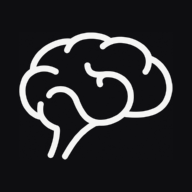
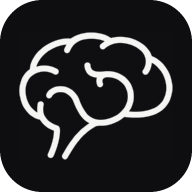
atualizações

diff --git a/index.html b/index.html
@@ -9,8 +9,8 @@
       name="description"
       content="Kioku: flashcards com repetição espaçada (SM-2 e FSRS). Estude melhor, lembre por mais tempo."
     />
-    <link rel="icon" type="image/png" sizes="32x32" href="/favicon-32.png" />
-    <link rel="icon" type="image/png" sizes="192x192" href="/pwa-192.png" />
+    <link rel="icon" type="image/png" sizes="32x32" href="/favicon-32.png?v=2" />
+    <link rel="icon" type="image/png" sizes="192x192" href="/pwa-192.png?v=2" />
     <link rel="apple-touch-icon" href="/apple-touch-icon.png" />
     <link rel="preconnect" href="https://fonts.googleapis.com" />
     <link rel="preconnect" href="https://fonts.gstatic.com" crossorigin />